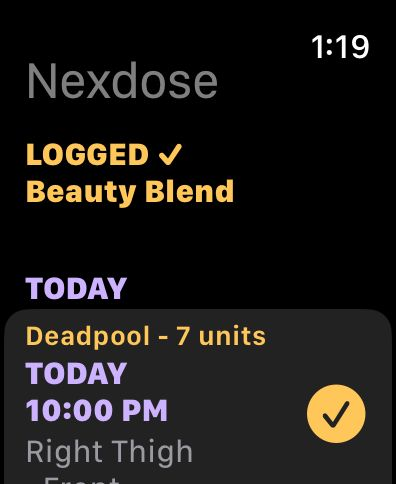
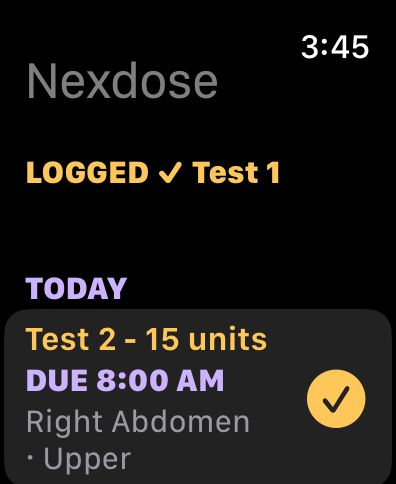
Add iPhone Duo row and updated Apple Watch screenshots with complication
Claude-Session: https://claude.ai/code/session_01NWtvSq9PfXihXUREt68rwq

diff --git a/index.html b/index.html
@@ -20,7 +20,7 @@
 <meta property="og:image:height" content="630">
 <meta property="og:image:alt" content="Nexdose app icon with calendar and body map screens">
 <meta name="twitter:image" content="https://www.nexdose.app/assets/og-image.png">
-<link rel="stylesheet" href="assets/style.css?v=4">
+<link rel="stylesheet" href="assets/style.css?v=5">
 <script type="application/ld+json">
 {"@context":"https://schema.org","@type":"MobileApplication","name":"Nexdose","operatingSystem":"iOS 18 or later","applicationCategory":"HealthApplication","description":"A simple, private injection tracker for weekly GLP-1 shots and other injections. One-tap logging, site rotation, reminders and reports. No account, no ads.","offers":[{"@type":"Offer","price":"0","priceCurrency":"USD","name":"Nexdose"},{"@type":"Offer","price":"14.99","priceCurrency":"USD","name":"Nexdose Plus (one-time purchase)"}],"author":{"@type":"Person","name":"Russell Gordon"},"url":"https://www.nexdose.app/"}
 </script>
@@ -42,7 +42,7 @@
 
 <section class="alt"><div class="wrap">
 <h2>See it in action</h2>
-<div class="shot-row"><h3>iPhone</h3><p class="row-intro">The whole app, built to be quick.</p><div class="shots"><figure class="shot "><picture><source srcset="assets/shots/calendar.webp" type="image/webp"><img src="assets/shots/calendar.jpg" alt="Nexdose calendar showing logged and upcoming shots for the month" width="660" height="1434" loading="lazy"></picture><figcaption>See your month at a glance</figcaption></figure><figure class="shot "><picture><source srcset="assets/shots/calendar-logged.webp" type="image/webp"><img src="assets/shots/calendar-logged.jpg" alt="Calendar with a Logged message and Undo button after tapping a shot" width="660" height="1434" loading="lazy"></picture><figcaption>Log a shot in one tap</figcaption></figure><figure class="shot "><picture><source srcset="assets/shots/today.webp" type="image/webp"><img src="assets/shots/today.jpg" alt="Today's Shots list with the next injection site for each" width="660" height="1434" loading="lazy"></picture><figcaption>Never miss a shot</figcaption></figure><figure class="shot "><picture><source srcset="assets/shots/upcoming.webp" type="image/webp"><img src="assets/shots/upcoming.jpg" alt="Upcoming Shots list showing the next dose and site for each peptide" width="660" height="1434" loading="lazy"></picture><figcaption>See what's coming up</figcaption></figure><figure class="shot "><picture><source srcset="assets/shots/body-map.webp" type="image/webp"><img src="assets/shots/body-map.jpg" alt="Body map showing recent injection sites by zone" width="660" height="1434" loading="lazy"></picture><figcaption>Rotate sites without thinking</figcaption></figure><figure class="shot "><picture><source srcset="assets/shots/levels.webp" type="image/webp"><img src="assets/shots/levels.jpg" alt="Levels graph showing estimated levels between shots" width="660" height="1434" loading="lazy"></picture><figcaption>See your levels</figcaption></figure><figure class="shot "><picture><source srcset="assets/shots/weight.webp" type="image/webp"><img src="assets/shots/weight.jpg" alt="Weight log with goal progress and chart" width="660" height="1434" loading="lazy"></picture><figcaption>Track your progress</figcaption></figure></div></div><div class="shot-row"><h3>Widgets</h3><p class="row-intro">Log from your Home Screen or Lock Screen without opening the app.</p><div class="shots"><figure class="shot "><picture><source srcset="assets/shots/widget-home.webp" type="image/webp"><img src="assets/shots/widget-home.jpg" alt="Home Screen widget listing next shots with check buttons" width="660" height="1435" loading="lazy"></picture><figcaption>Your next shots on the Home Screen</figcaption></figure><figure class="shot "><picture><source srcset="assets/shots/widget-logged.webp" type="image/webp"><img src="assets/shots/widget-logged.jpg" alt="Home Screen widget showing a shot marked Logged" width="660" height="1435" loading="lazy"></picture><figcaption>Tap the check to log</figcaption></figure><figure class="shot "><picture><source srcset="assets/shots/widget-lock.webp" type="image/webp"><img src="assets/shots/widget-lock.jpg" alt="Lock Screen widget showing the next shot and injection site" width="660" height="1434" loading="lazy"></picture><figcaption>Your next shot on the Lock Screen</figcaption></figure></div></div><div class="shot-row"><h3>Apple Watch</h3><p class="row-intro">See today's shots and log from your wrist.</p><div class="shots"><figure class="shot watch"><picture><source srcset="assets/shots/watch-today.webp" type="image/webp"><img src="assets/shots/watch-today.jpg" alt="Apple Watch showing today's shots with check buttons" width="396" height="484" loading="lazy"></picture><figcaption>Today's shots on your wrist</figcaption></figure><figure class="shot watch"><picture><source srcset="assets/shots/watch-logged.webp" type="image/webp"><img src="assets/shots/watch-logged.jpg" alt="Apple Watch confirming a shot was logged" width="396" height="484" loading="lazy"></picture><figcaption>Tap to log</figcaption></figure></div></div><div class="shot-row"><h3>Siri</h3><p class="row-intro">Log a shot with your voice.</p><div class="shots"><figure class="shot "><div class="ph">Siri logging a shot<br><small>Screenshot coming</small></div><figcaption>Just ask Siri</figcaption></figure></div></div>
+<div class="shot-row"><h3>iPhone</h3><p class="row-intro">The whole app, built to be quick.</p><div class="shots"><figure class="shot "><picture><source srcset="assets/shots/calendar.webp" type="image/webp"><img src="assets/shots/calendar.jpg" alt="Nexdose calendar showing logged and upcoming shots for the month" width="660" height="1434" loading="lazy"></picture><figcaption>See your month at a glance</figcaption></figure><figure class="shot "><picture><source srcset="assets/shots/calendar-logged.webp" type="image/webp"><img src="assets/shots/calendar-logged.jpg" alt="Calendar with a Logged message and Undo button after tapping a shot" width="660" height="1434" loading="lazy"></picture><figcaption>Log a shot in one tap</figcaption></figure><figure class="shot "><picture><source srcset="assets/shots/today.webp" type="image/webp"><img src="assets/shots/today.jpg" alt="Today's Shots list with the next injection site for each" width="660" height="1434" loading="lazy"></picture><figcaption>Never miss a shot</figcaption></figure><figure class="shot "><picture><source srcset="assets/shots/upcoming.webp" type="image/webp"><img src="assets/shots/upcoming.jpg" alt="Upcoming Shots list showing the next dose and site for each peptide" width="660" height="1434" loading="lazy"></picture><figcaption>See what's coming up</figcaption></figure><figure class="shot "><picture><source srcset="assets/shots/body-map.webp" type="image/webp"><img src="assets/shots/body-map.jpg" alt="Body map showing recent injection sites by zone" width="660" height="1434" loading="lazy"></picture><figcaption>Rotate sites without thinking</figcaption></figure><figure class="shot "><picture><source srcset="assets/shots/levels.webp" type="image/webp"><img src="assets/shots/levels.jpg" alt="Levels graph showing estimated levels between shots" width="660" height="1434" loading="lazy"></picture><figcaption>See your levels</figcaption></figure><figure class="shot "><picture><source srcset="assets/shots/weight.webp" type="image/webp"><img src="assets/shots/weight.jpg" alt="Weight log with goal progress and chart" width="660" height="1434" loading="lazy"></picture><figcaption>Track your progress</figcaption></figure></div></div><div class="shot-row"><h3>Widgets</h3><p class="row-intro">Log from your Home Screen or Lock Screen without opening the app.</p><div class="shots"><figure class="shot "><picture><source srcset="assets/shots/widget-home.webp" type="image/webp"><img src="assets/shots/widget-home.jpg" alt="Home Screen widget listing next shots with check buttons" width="660" height="1435" loading="lazy"></picture><figcaption>Your next shots on the Home Screen</figcaption></figure><figure class="shot "><picture><source srcset="assets/shots/widget-logged.webp" type="image/webp"><img src="assets/shots/widget-logged.jpg" alt="Home Screen widget showing a shot marked Logged" width="660" height="1435" loading="lazy"></picture><figcaption>Tap the check to log</figcaption></figure><figure class="shot "><picture><source srcset="assets/shots/widget-lock.webp" type="image/webp"><img src="assets/shots/widget-lock.jpg" alt="Lock Screen widget showing the next shot and injection site" width="660" height="1434" loading="lazy"></picture><figcaption>Your next shot on the Lock Screen</figcaption></figure></div></div><div class="shot-row"><h3>Apple Watch</h3><p class="row-intro">See today's shots and log from your wrist.</p><div class="shots"><figure class="shot watch"><picture><source srcset="assets/shots/watch-today.webp" type="image/webp"><img src="assets/shots/watch-today.jpg" alt="Apple Watch showing today's shots with check buttons" width="396" height="484" loading="lazy"></picture><figcaption>Today's shots on your wrist</figcaption></figure><figure class="shot watch"><picture><source srcset="assets/shots/watch-logged.webp" type="image/webp"><img src="assets/shots/watch-logged.jpg" alt="Apple Watch confirming a shot was logged, with the next shot below" width="396" height="484" loading="lazy"></picture><figcaption>Tap to log</figcaption></figure><figure class="shot watch"><picture><source srcset="assets/shots/watch-complication.webp" type="image/webp"><img src="assets/shots/watch-complication.jpg" alt="Watch face with the Nexdose complication showing the next shot day" width="396" height="484" loading="lazy"></picture><figcaption>Your next shot on your watch face</figcaption></figure></div></div><div class="shot-row"><h3>iPhone Duo</h3><p class="row-intro">Made for the big screen: your calendar and today's shots side by side.</p><div class="shots"><figure class="shot wide"><picture><source srcset="assets/shots/duo-open.webp" type="image/webp"><img src="assets/shots/duo-open.jpg" alt="iPhone Duo unfolded with the calendar and Today's Shots side by side" width="1100" height="774" loading="lazy"></picture><figcaption>Calendar and today, side by side</figcaption></figure><figure class="shot wide"><picture><source srcset="assets/shots/duo-body-map.webp" type="image/webp"><img src="assets/shots/duo-body-map.jpg" alt="iPhone Duo unfolded showing the full-size body map" width="1100" height="774" loading="lazy"></picture><figcaption>A bigger body map</figcaption></figure><figure class="shot "><picture><source srcset="assets/shots/duo-cover.webp" type="image/webp"><img src="assets/shots/duo-cover.jpg" alt="iPhone Duo cover screen with the calendar and today's shots" width="660" height="960" loading="lazy"></picture><figcaption>Works folded too</figcaption></figure></div></div><div class="shot-row"><h3>Siri</h3><p class="row-intro">Log a shot with your voice.</p><div class="shots"><figure class="shot "><div class="ph">Siri logging a shot<br><small>Screenshot coming</small></div><figcaption>Just ask Siri</figcaption></figure></div></div>
 </div></section>
 
 <section><div class="wrap">

diff --git a/assets/style.css b/assets/style.css
@@ -42,6 +42,9 @@ section.alt .card{background:var(--bg)}
 .shot{margin:0}
 .shot .ph{aspect-ratio:660/1434;border-radius:28px;border:2px dashed var(--line);background:var(--bg);display:flex;flex-direction:column;align-items:center;justify-content:center;text-align:center;padding:16px;margin-bottom:10px;color:var(--muted)}
 .shot.watch{flex-basis:180px}
+.shot.wide{flex-basis:460px}
+.shot.wide img{border-radius:22px}
+@media (max-width:640px){.shot.wide{flex-basis:300px}}
 .shot.watch .ph{aspect-ratio:396/484;border-radius:44px}
 .shot.watch img{border-radius:40px}
 .shot-row{margin-top:36px}

diff --git a/about/index.html b/about/index.html
@@ -20,7 +20,7 @@
 <meta property="og:image:height" content="630">
 <meta property="og:image:alt" content="Nexdose app icon with calendar and body map screens">
 <meta name="twitter:image" content="https://www.nexdose.app/assets/og-image.png">
-<link rel="stylesheet" href="../assets/style.css?v=4">
+<link rel="stylesheet" href="../assets/style.css?v=5">
 </head>
 <body>
 <header class="site"><div class="wrap">

diff --git a/how-to/index.html b/how-to/index.html
@@ -20,7 +20,7 @@
 <meta property="og:image:height" content="630">
 <meta property="og:image:alt" content="Nexdose app icon with calendar and body map screens">
 <meta name="twitter:image" content="https://www.nexdose.app/assets/og-image.png">
-<link rel="stylesheet" href="../assets/style.css?v=4">
+<link rel="stylesheet" href="../assets/style.css?v=5">
 </head>
 <body>
 <header class="site"><div class="wrap">

diff --git a/injection-safety/index.html b/injection-safety/index.html
@@ -20,7 +20,7 @@
 <meta property="og:image:height" content="630">
 <meta property="og:image:alt" content="Nexdose app icon with calendar and body map screens">
 <meta name="twitter:image" content="https://www.nexdose.app/assets/og-image.png">
-<link rel="stylesheet" href="../assets/style.css?v=4">
+<link rel="stylesheet" href="../assets/style.css?v=5">
 </head>
 <body>
 <header class="site"><div class="wrap">

diff --git a/plus/index.html b/plus/index.html
@@ -20,7 +20,7 @@
 <meta property="og:image:height" content="630">
 <meta property="og:image:alt" content="Nexdose app icon with calendar and body map screens">
 <meta name="twitter:image" content="https://www.nexdose.app/assets/og-image.png">
-<link rel="stylesheet" href="../assets/style.css?v=4">
+<link rel="stylesheet" href="../assets/style.css?v=5">
 </head>
 <body>
 <header class="site"><div class="wrap">

diff --git a/privacy-policy/index.html b/privacy-policy/index.html
@@ -20,7 +20,7 @@
 <meta property="og:image:height" content="630">
 <meta property="og:image:alt" content="Nexdose app icon with calendar and body map screens">
 <meta name="twitter:image" content="https://www.nexdose.app/assets/og-image.png">
-<link rel="stylesheet" href="../assets/style.css?v=4">
+<link rel="stylesheet" href="../assets/style.css?v=5">
 </head>
 <body>
 <header class="site"><div class="wrap">

diff --git a/support/index.html b/support/index.html
@@ -20,7 +20,7 @@
 <meta property="og:image:height" content="630">
 <meta property="og:image:alt" content="Nexdose app icon with calendar and body map screens">
 <meta name="twitter:image" content="https://www.nexdose.app/assets/og-image.png">
-<link rel="stylesheet" href="../assets/style.css?v=4">
+<link rel="stylesheet" href="../assets/style.css?v=5">
 </head>
 <body>
 <header class="site"><div class="wrap">
